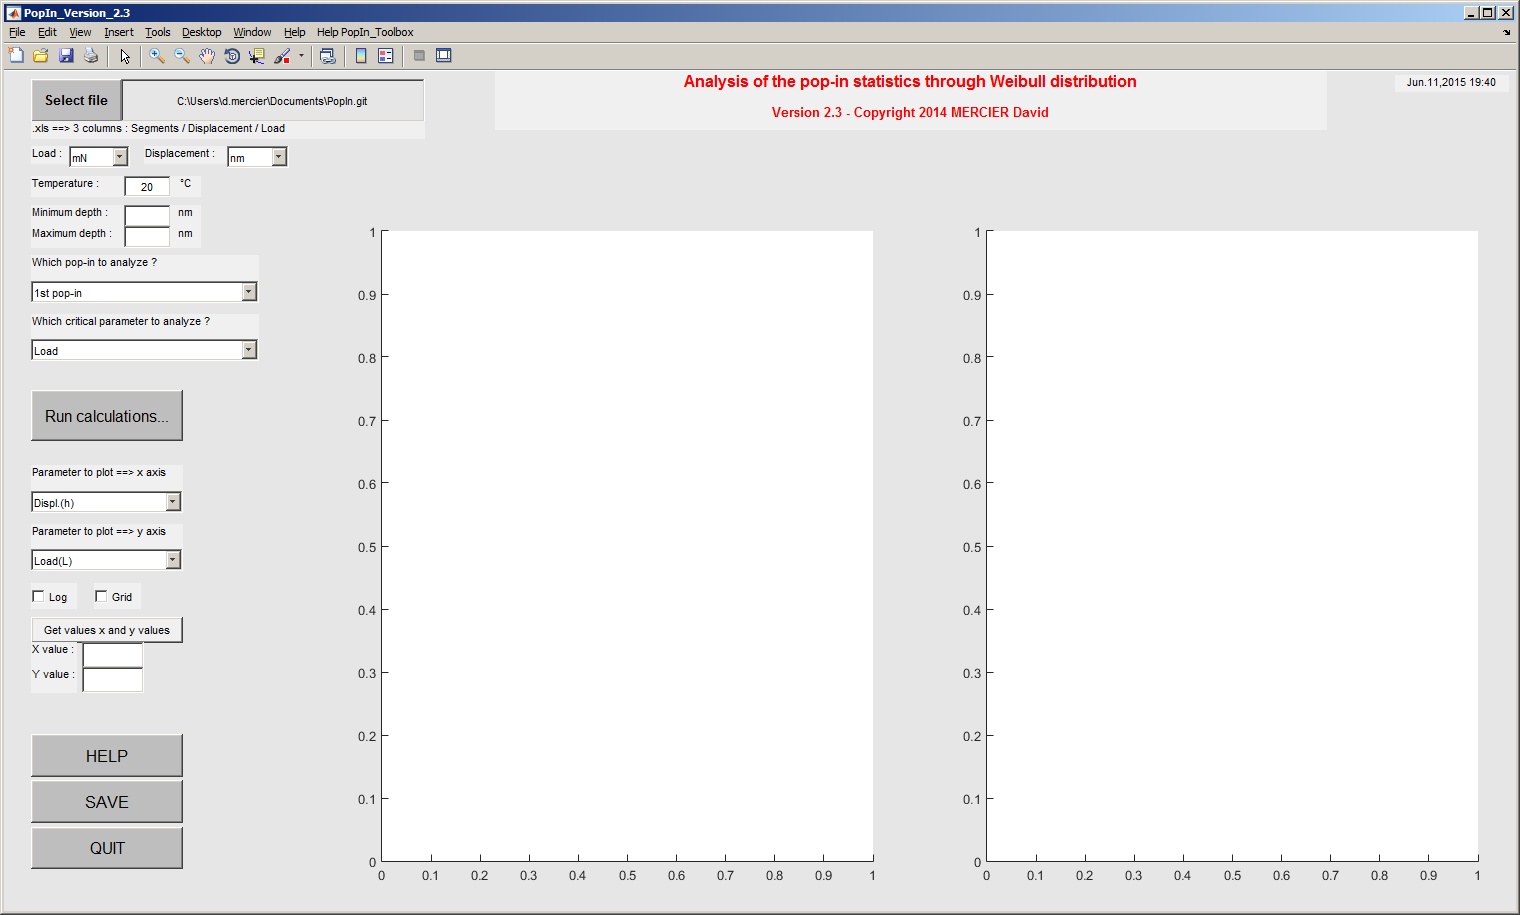
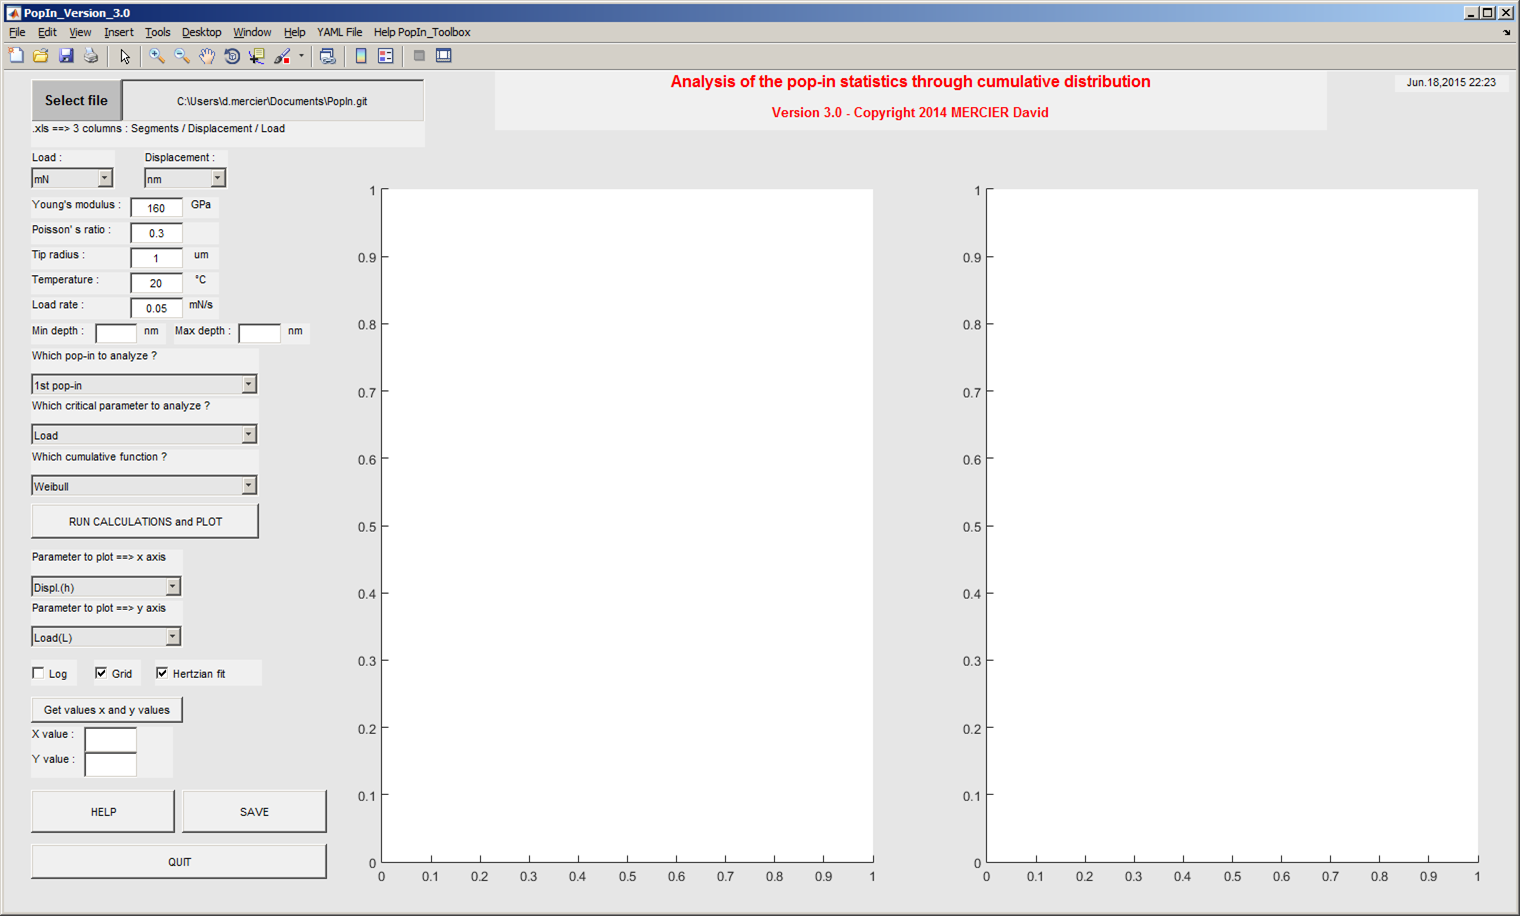
updated doc and pictures (+1 squashed commits)
Squashed commits:

[86f7c78] updated doc and pictures

diff --git a/demo.m b/demo.m
@@ -52,7 +52,7 @@ gui.handles.title_1 = uicontrol('Parent', gcf,...
     'Units', 'normalized',...
     'Style', 'text',...
     'Position', [0.325 0.96 0.55 0.04],...
-    'String', 'Analysis of the pop-in statistics through Weibull distribution',...
+    'String', 'Analysis of the pop-in statistics through cumulative distribution',...
     'FontWeight', 'bold',...
     'FontSize', 12,...
     'HorizontalAlignment', 'center',...

diff --git a/doc/getting_started.rst b/doc/getting_started.rst
@@ -67,6 +67,21 @@ How to use the GUI for "pop-in" analysis from indentation tests ?
    :align: center
    
    *Plot of the load-displacement curves after loading of data.*
+   
+The YAML configuration files
+#################################
+
+Default YAML configuration files, stored in the folder `YAML_config_files <https://github.com/DavidMercier/PopIn/tree/master/YAML_config_files>`_, are loaded automatically to set the GUI:
+
+* `data_config.yaml <https://github.com/DavidMercier/PopIn/blob/master/YAML_config_files/data_config.yaml>`_
+* `indenters_config.yaml <https://github.com/DavidMercier/PopIn/blob/master/YAML_config_files/indenter_config.yaml>`_
+* `numerics_config.yaml <https://github.com/DavidMercier/PopIn/blob/master/YAML_config_files/numerics_config.yaml>`_
+
+You have to update these YAML config. files, if you want to change indenter properties, constant parameters of models and constant parameters of the least-square method used to solve nonlinear curve-fitting and the path to your datasets.
+
+`Visit the YAML website for more informations <http://www.yaml.org/>`_.
+
+`Visit the YAML code for Matlab <http://code.google.com/p/yamlmatlab/>`_.
 
 Links
 #######

diff --git a/doc/index.rst b/doc/index.rst
@@ -8,13 +8,12 @@
 PopIn |matlab| toolbox
 =======================
 
-This toolbox has been developed to plot (nano)indentation data and to analyze the pop-in distribution.
+This toolbox has been developed to plot (nano)indentation data and to analyze pop-in events distribution.
 
 With this Matlab toolbox, it is possible to :
     * plot load-displacement curves ;
-    * plot Weibull distribution (with 2 parameters) of the 1st or the 2nd pop-in ;
-    * and finally to assess the Weibull parameters (mean critical load or displacement and Weibull modulus).
-   
+    * plot cumulative (Weibull or time/temperature dependent) distribution of the 1st or the 2nd pop-in.
+
 .. figure:: ./_pictures/GUI_Main_Window_overview.png
    :scale: 35 %
    :align: center

diff --git a/doc/models.rst b/doc/models.rst
@@ -156,7 +156,7 @@ With :math:`\tau_\text{max}` the maximun shear stress at a single point beneath 
     .. math:: P = \dot{P}\cdot t
             :label: loadrate
             
-    .. math:: F(P) = 1-exp\left(-\frac{9KR\eta}{4E^*\dot{P}\alpha^6}exp\left(-\frac{\epsilon}{kT}\right)\left\beta(\alpha,P\right)\right)
+    .. math:: F(P) = 1-exp\left(-\frac{9KR\eta}{4E^*\dot{P}\alpha^6}exp\left(-\frac{\epsilon}{kT}\right)\left(\beta(\alpha,P\right)\right)
             :label: first_order_analytical_solution
             
     .. math:: \alpha = \left(\frac{0.47}{\pi}\right)\left(\frac{4E^*}{3R}\right)^{2/3}\frac{V}{kT}
